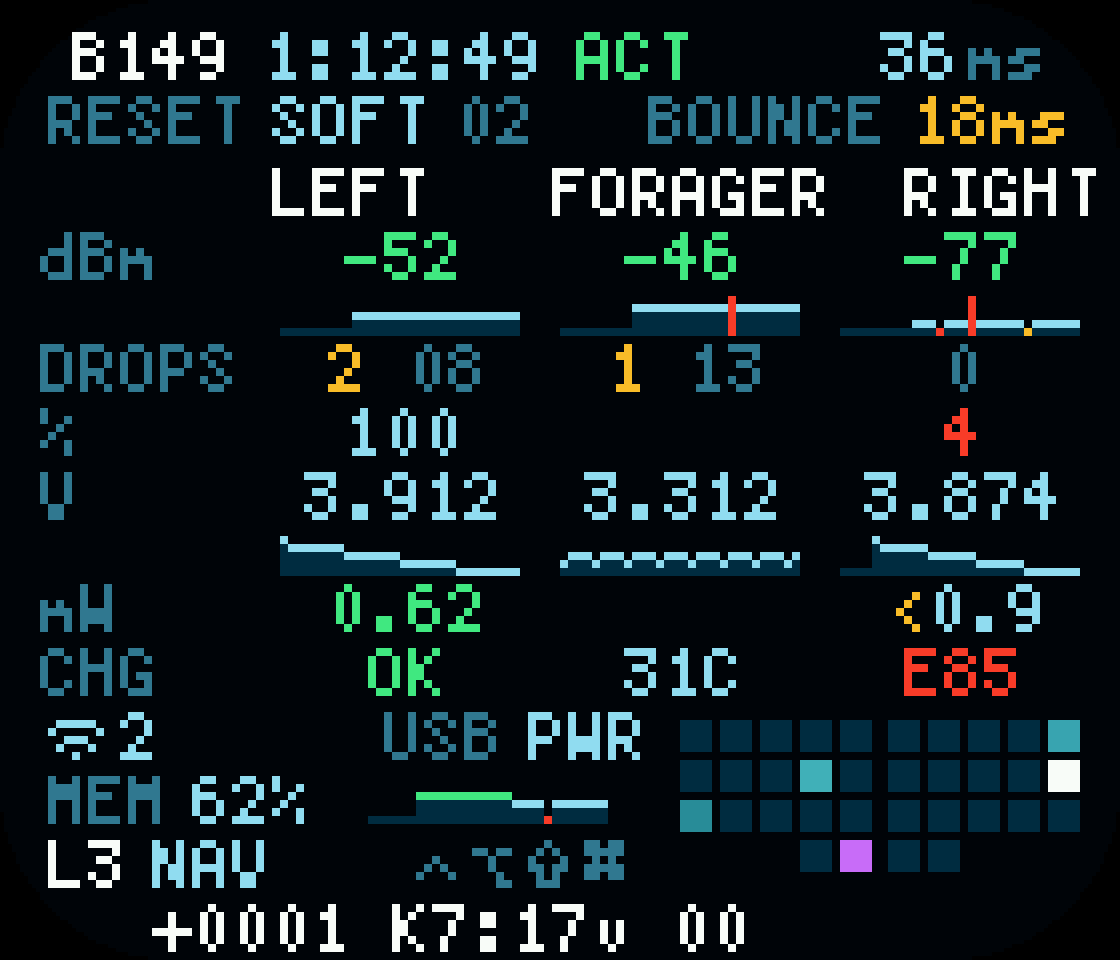
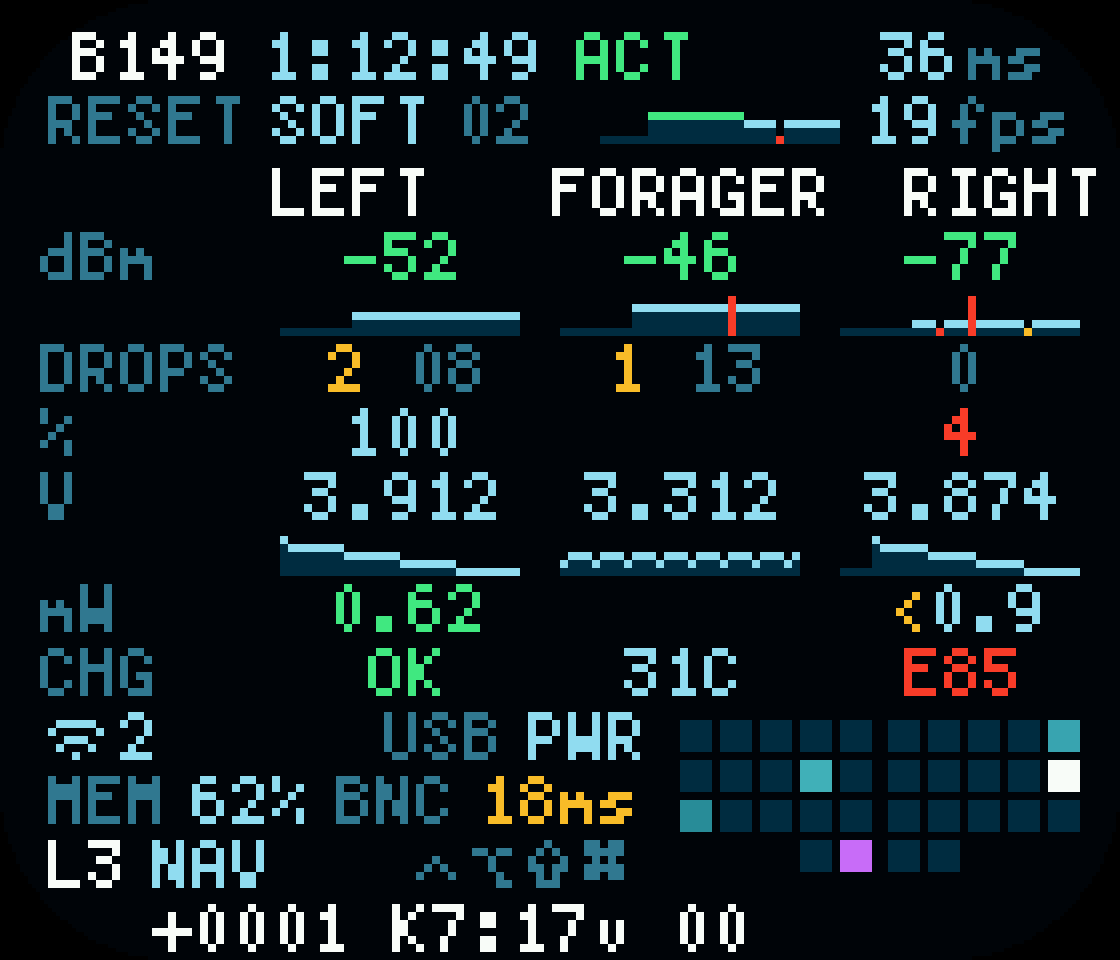
Debug: the frame rate up top, bounce down beside MEM
The frame rate's chart and the last 20 s's figure take BOUNCE's place on
the second line; the bounce goes beside MEM as BNC. The chart now counts
every screen but Debug (Typist and Status too), not only those with the
status text over them.

Claude-Session: https://claude.ai/code/session_01UMKUY2wwN6UBcavEJGGmqi

Changed region(s): [[0.5312, 0.0938, 0.9688, 0.1562], [0.2812, 0.8125, 0.5625, 0.875]]

diff --git a/src/screen_fx/fx.c b/src/screen_fx/fx.c
@@ -965,8 +965,11 @@ static int put(uint8_t *fb, int x, int y, const char *s, uint8_t color) {
 }
 
 /* The same, ending at `right`. */
-static void put_right(uint8_t *fb, int right, int y, const char *s, uint8_t color) {
-    put(fb, right - 5 * (int)strlen(s), y, s, color);
+/* Text ending at `right`; where it starts. */
+static int put_right(uint8_t *fb, int right, int y, const char *s, uint8_t color) {
+    const int left = right - 5 * (int)strlen(s);
+    put(fb, left, y, s, color);
+    return left;
 }
 
 
@@ -1419,14 +1422,23 @@ static void debug_frame(uint8_t *fb, const struct fx_input *in) {
         const bool fault = (d->reset_cause & (1 << 4 | 1 << 8 | 1 << 2)) != 0;
         x = put(fb, x, y2, reset_name(d->reset_cause), fault ? DBG_BAD : DBG_TEXT) + 3;
         snprintf(buf, sizeof(buf), "%02X", (unsigned)(d->reset_cause & 0xff)); /* all the reasons, in hex */
-        put(fb, x, y2, buf, DBG_LABEL);
+        x = put(fb, x, y2, buf, DBG_LABEL) + 3;
     }
-    if (d->bounce_ms) {
-        snprintf(buf, sizeof(buf), "%ums", d->bounce_ms);
-        put_right(fb, FX_W - 6, y2, buf, d->bounce_ms < 30 ? DBG_WARN : DBG_TEXT); /* a hint, not proof: see the README */
-        put_right(fb, FX_W - 6 - 5 * (int)strlen(buf) - 3, y2, "BOUNCE", DBG_LABEL);
+    /* the animations' frame rate: the last 20 s's, and its last 10 minutes
+     * (if the restart's reason leaves room) */
+    int fps = 0;
+    for (int i = 0; i < FX_FPS_HISTORY; i++) {
+        fps = d->fps_log[i] ? d->fps_log[i] : fps;
+    }
+    if (fps) {
+        snprintf(buf, sizeof(buf), "%u", fps > 99 ? 99 : fps);
     } else {
-        put_right(fb, FX_W - 6, y2, "BOUNCE --", DBG_LABEL);
+        strcpy(buf, "--");
+    }
+    const int units_x = put_right(fb, FX_W - 6, y2, "fps", DBG_LABEL);
+    const int fps_x = put_right(fb, units_x - 1, y2, buf, !fps ? DBG_LABEL : fps >= 24 ? DBG_GOOD : fps >= 15 ? DBG_TEXT : DBG_WARN);
+    if (fps_x - 3 - DBG_CHART_W >= x) {
+        fps_chart(fb, fps_x - 3 - DBG_CHART_W, y2 + 1, d->fps_log);
     }
 
     /* the table: a column each for the left half, the dongle and the right
@@ -1560,8 +1572,9 @@ static void debug_frame(uint8_t *fb, const struct fx_input *in) {
     const int board_left = FX_W - 1 - fx_corner_inset(out_y, out_y + 20) - board_cols * board_pitch;
 
     /* LVGL's memory used; then, only if there are any, the USB reports the
-     * computer didn't take (UE, as on Status); then the animations' frame
-     * rate, if there is room before the key map */
+     * computer didn't take (UE, as on Status); then the quickest a key has
+     * come back down (a switch that bounces shows here as a few ms, amber
+     * under 30), if there is room before the key map */
     x = 6;
     if (d->heap_known) {
         x = put(fb, x, out_y + 8, "MEM", DBG_LABEL) + 3;
@@ -1572,9 +1585,14 @@ static void debug_frame(uint8_t *fb, const struct fx_input *in) {
         snprintf(buf, sizeof(buf), "UE%u", d->usb_errors > 99 ? 99 : d->usb_errors);
         x = put(fb, x, out_y + 8, buf, DBG_WARN) + 3;
     }
-    x = x > 46 ? x : 46;
-    if (x + DBG_CHART_W <= board_left - 2) {
-        fps_chart(fb, x, out_y + 9, d->fps_log);
+    if (d->bounce_ms) {
+        snprintf(buf, sizeof(buf), "%ums", d->bounce_ms);
+    } else {
+        strcpy(buf, "--");
+    }
+    if (x + 18 + 5 * (int)strlen(buf) <= board_left - 2) {
+        x = put(fb, x, out_y + 8, "BNC", DBG_LABEL) + 3;
+        put(fb, x, out_y + 8, buf, d->bounce_ms && d->bounce_ms < 30 ? DBG_WARN : d->bounce_ms ? DBG_TEXT : DBG_LABEL); /* a hint, not proof: see the README */
     }
 
     /* the layer (number and name), the modifiers lit while held; in the

diff --git a/src/dongle_screen_fx.c b/src/dongle_screen_fx.c
@@ -1300,9 +1300,9 @@ static void frame_cb(struct k_work *work) {
     }
 
     fx_frame(screen - 1, frame, &in);
-    /* the animations' frame rate, a slot every FX_FPS_SLOT_S seconds, for Debug */
+    /* the frame rate of every screen but Debug, a slot every FX_FPS_SLOT_S seconds, for Debug */
     static uint32_t slot_from, slot_frames, slot_ms;
-    if (!plain) {
+    if (!is_debug) {
         slot_frames++;
         slot_ms += (uint32_t)(in.step * 33.3f);
     }

diff --git a/src/screen_fx/README.md b/src/screen_fx/README.md
@@ -92,10 +92,10 @@ speed is on Typist, the battery levels on Typist and Status.
 | Line | Shows |
 | --- | --- |
 | `B149 1:12:51 ACT 40ms` | build 149 (`DEV` if not from CI); time up; `ACT`ive, `IDLE` or `SLEEP`; how long this screen takes to draw a frame |
-| `RESET SOFT 02  BOUNCE 18ms` | why it last restarted (`POR`, `PIN`, `SOFT`; red `WDOG`, `LOCK`, `BRWN`; all the reasons in hex), or a red `HANG`/`CRASH` with its code and address; the quickest any key has come back down, amber under 30 ms: maybe a bouncing switch |
+| `RESET SOFT 02  19fps` | why it last restarted (`POR`, `PIN`, `SOFT`; red `WDOG`, `LOCK`, `BRWN`; all the reasons in hex), or a red `HANG`/`CRASH` with its code and address; the frame rate of the other screens over the last 10 minutes, a column each 20 s (30 fps full height): green at 24 or more, amber under 15, red under 8, nothing where Debug or nothing was showing; and the last 20 s's (the chart only when the restart's reason leaves room) |
 | `LEFT`, the keyboard's name, `RIGHT` | a column each for the halves and the dongle, red when its link is down (the dongle's is to the computer): rows below |
 | waves, `USB` | the Bluetooth profile in use, as over the animations (green: connected, white: paired, dim: free; flashing for 3 s after you switch); USB `--`, `PWR` or `HID` |
-| `MEM 62% UE3` | LVGL memory used; only if there are any, `UE` and the USB reports the computer didn't take; then the animations' frame rate over the last 10 minutes, a column each 20 s (30 fps full height): green at 24 or more, amber under 15, red under 8, nothing where none was showing (only when it fits before the key map) |
+| `MEM 62% UE3 BNC 18ms` | LVGL memory used; only if there are any, `UE` and the USB reports the computer didn't take; the quickest any key has come back down, amber under 30 ms: maybe a bouncing switch (only when it fits before the key map) |
 | `L3 NAV ⌃⌥⇧⌘` | the top layer and its name; the modifiers, lit while held |
 | last line | the last key, keycode or encoder event, with the ms since the one before |
 | key map | every key, lit while held; all of a half red while it isn't connected. A key that doesn't light isn't reaching the dongle |
